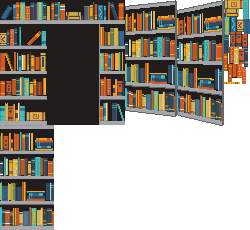
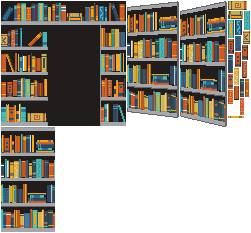
mostly working bookshelf puzzle w/ cursor

Changed region(s): [[0.0, 0.0, 1.0, 1.0]]

diff --git a/src/scenes/dialogs/Books.ts b/src/scenes/dialogs/Books.ts
@@ -1,8 +1,8 @@
-import { FX, GameObjects, Geom, Types } from 'phaser';
+import { FX, GameObjects, Geom } from 'phaser';
 
 import { Player } from '../../classes/Player/Player';
 import { Button } from '../../classes/UI/Button';
-import { Cursor } from '../../classes/UI/Cursor';
+import { Cursor, Region } from '../../classes/UI/Cursor';
 import { Message } from '../../classes/UI/Message';
 import { Config } from '../../config';
 import { ItemType } from '../../data/types';
@@ -21,10 +21,10 @@ const bookNames = [
   'Surrender to the Starlit Realm',
   'The Bard’s Forbidden Melody',
   'Bound by Fate and Fire',
-  'The Creation of Time',
   'Secrets of the Fifth Element',
   'The Enchanted Knight’s Oath',
   'A Potion for Yesterday',
+  'The Creation of Time',
   'Tome of the Lost Hours',
   'The Midnight Convergence',
   'The Rogue’s Tempting Treasure',
@@ -133,7 +133,7 @@ export class Books extends Dialog {
   createBookshelf(hasNote: boolean) {
     const texture = this.textures.get('bookshelf');
     const frames = Object.entries(texture.frames);
-    const regions: Types.Math.RectangleLike[][] = [];
+    const regions: Region[][] = [];
 
     const scale = 4;
     const xOffset = hasNote ? 150 : 0;
@@ -144,11 +144,19 @@ export class Books extends Dialog {
     this.door = this.add.image(xOffset, 0, 'bookshelf', 'Door-0').setScale(scale).setTint(0x666666);
     this.container.add(this.door);
 
-    const books = frames.filter((frame) => frame[1].name.startsWith('Book_'));
+    const books = frames
+      .filter((frame) => frame[1].name.startsWith('Book_'))
+      .sort((a, b) => {
+        const aName = Number(a[1].name.replace('Book_', '').replace('-0', ''));
+        const bName = Number(b[1].name.replace('Book_', '').replace('-0', ''));
+
+        return aName - bName;
+      });
     for (let i = 0; i < books.length; i++) {
       const frame = books[i];
 
       const image = this.add.image(xOffset, 0, 'bookshelf', frame[1].name).setScale(scale);
+      image.setData({ index: i });
       this.container.add(image);
       const padding = 2;
 
@@ -161,11 +169,15 @@ export class Books extends Dialog {
       );
       image.setInteractive({ hitArea: rect, hitAreaCallback: Geom.Rectangle.Contains, cursor: 'pointer' });
 
-      const x = i % 4;
-      const y = Math.floor(i / 5);
-
-      regions[x] = regions[x] || [];
-      regions[x][y] = rect;
+      const y = Math.floor(i / 4);
+      if (regions[y] === undefined) regions.push([]);
+      regions[y].push({
+        x: -1,
+        y: -1,
+        width: -1,
+        height: -1,
+        object: image,
+      });
 
       const glow = image.preFX?.addGlow(getColorNumber(Colors.Tan), 0);
       if (glow) {
@@ -201,28 +213,26 @@ export class Books extends Dialog {
       }
     }
 
-    // let i = 0;
-    // for (let x = 0; x < 4; x++) {
-    //   regions.push([]);
-    //   for (let y = 0; y < 5; y++) {
-    //     const book = this.books[i].image;
-    //     regions[x].push({
-    //       x: book.interactive.hitArea.x * scale + xOffset,
-    //     });
-    //     i++;
-    //   }
-    // }
-
-    console.log(this.books, regions);
-
     const cursor = new Cursor(
       this,
       {
         regions,
-        keyHandler: (_pos, region) => {
-          const index = this.books.findIndex((book) => book.image.x === region?.x && book.image.y === region?.y);
-          if (index >= 0) this.handleClick(index);
+        onSelect: (_pos, region) => {
+          if (region?.object && !this.message.visible) {
+            const index = region.object.getData('index');
+            this.handleClick(index);
+          }
         },
+        onChange: (_pos, region) => {
+          if (region?.object) {
+            const index = region.object.getData('index');
+
+            this.books.forEach((book, i) => {
+              if (!this.answer.includes(i)) book.strength = i === index ? GLOW_STRENGTH : 0;
+            });
+          }
+        },
+        hidden: true,
       },
       this.keys
     );

diff --git a/src/classes/UI/Cursor.ts b/src/classes/UI/Cursor.ts
@@ -64,7 +64,7 @@ export class Cursor extends GameObjects.Rectangle {
 
       if (this.cursorData.onChange) this.cursorData.onChange(this.position, region);
 
-      this.nextUpdate = time + 170;
+      this.nextUpdate = time + 200;
     }
   }
 }
